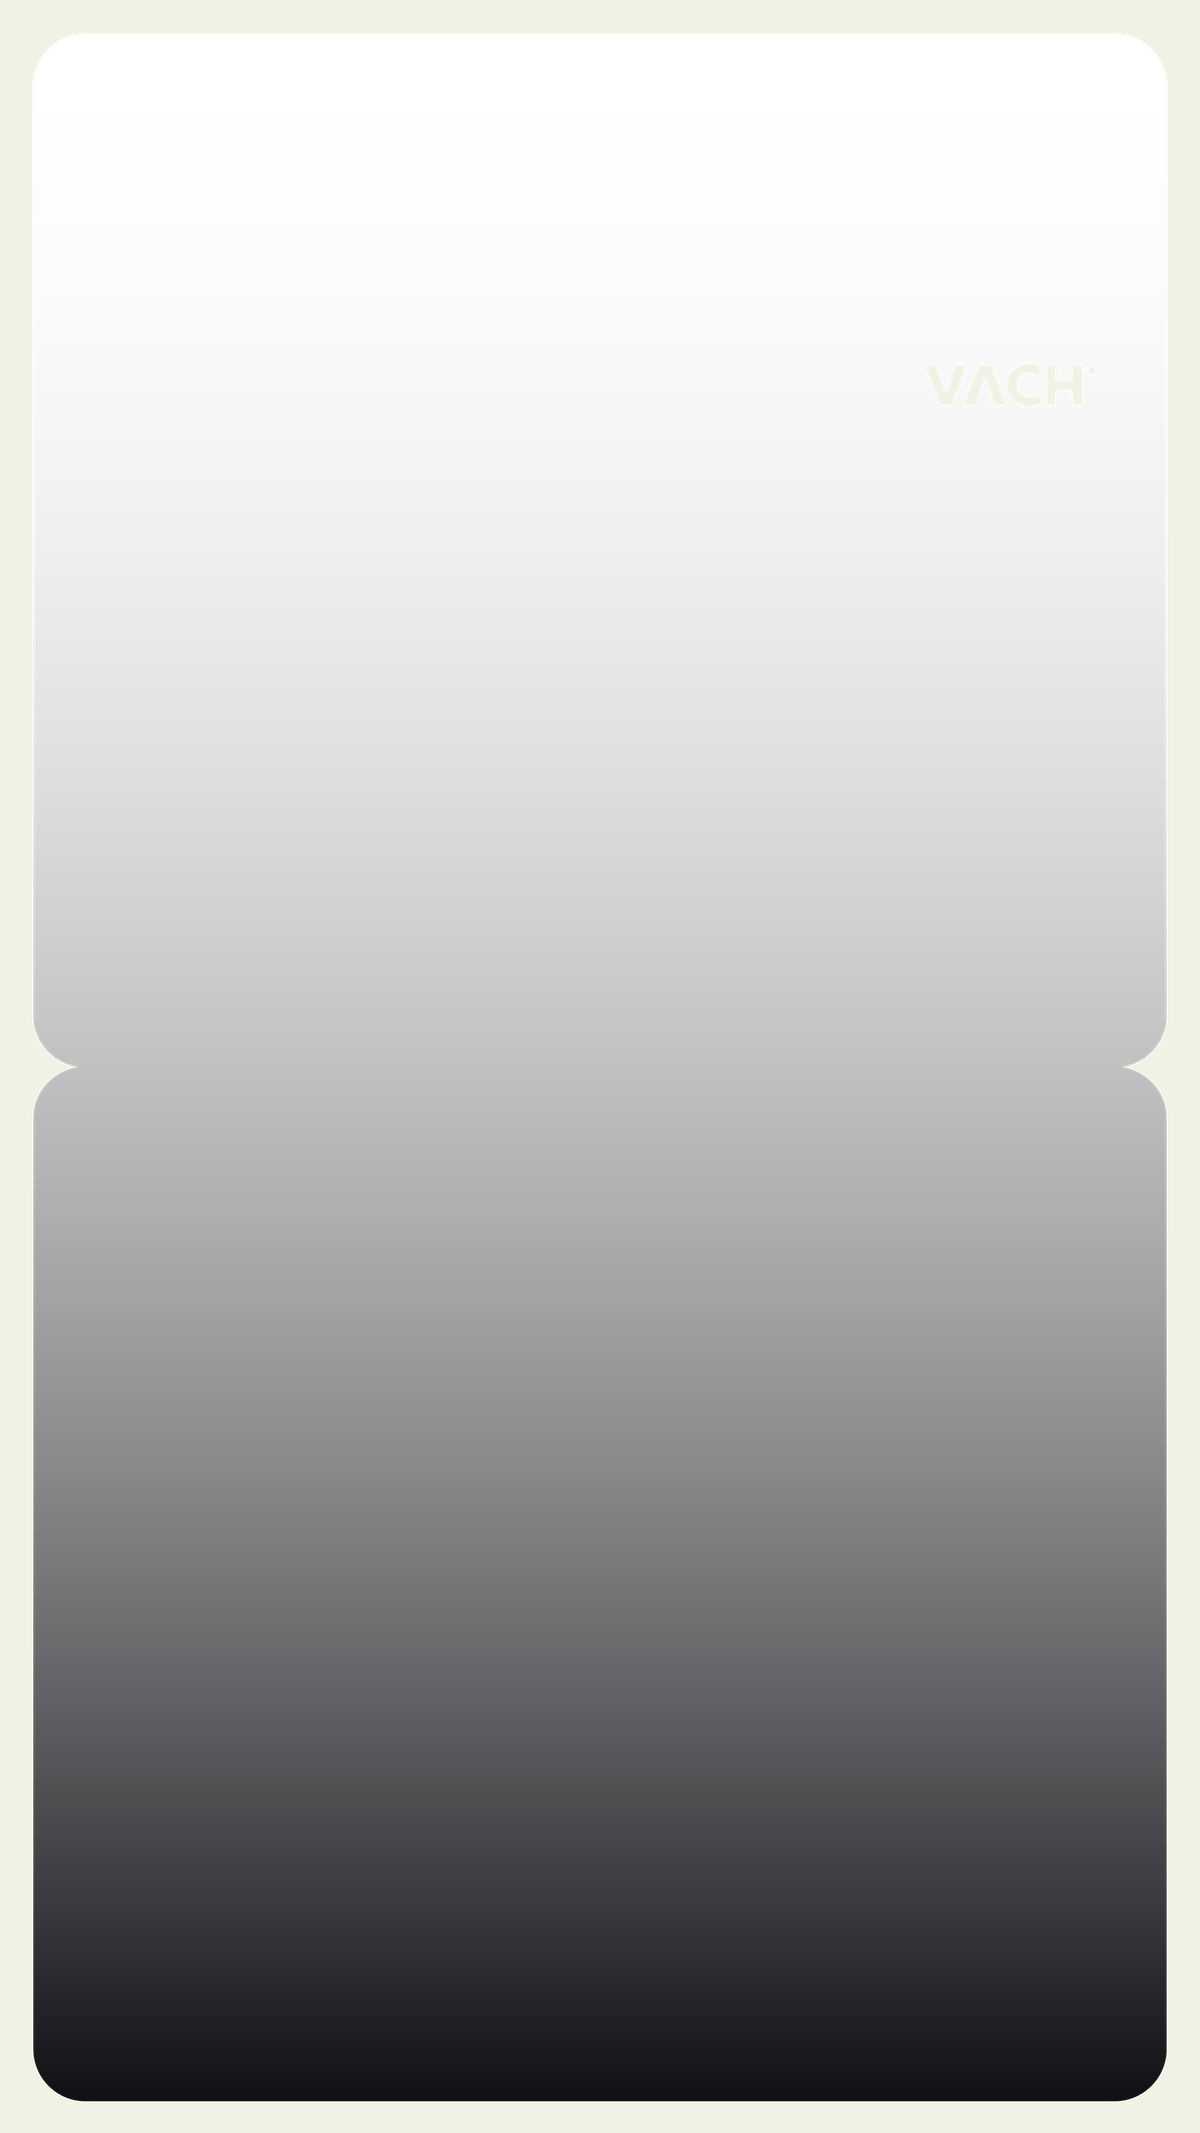
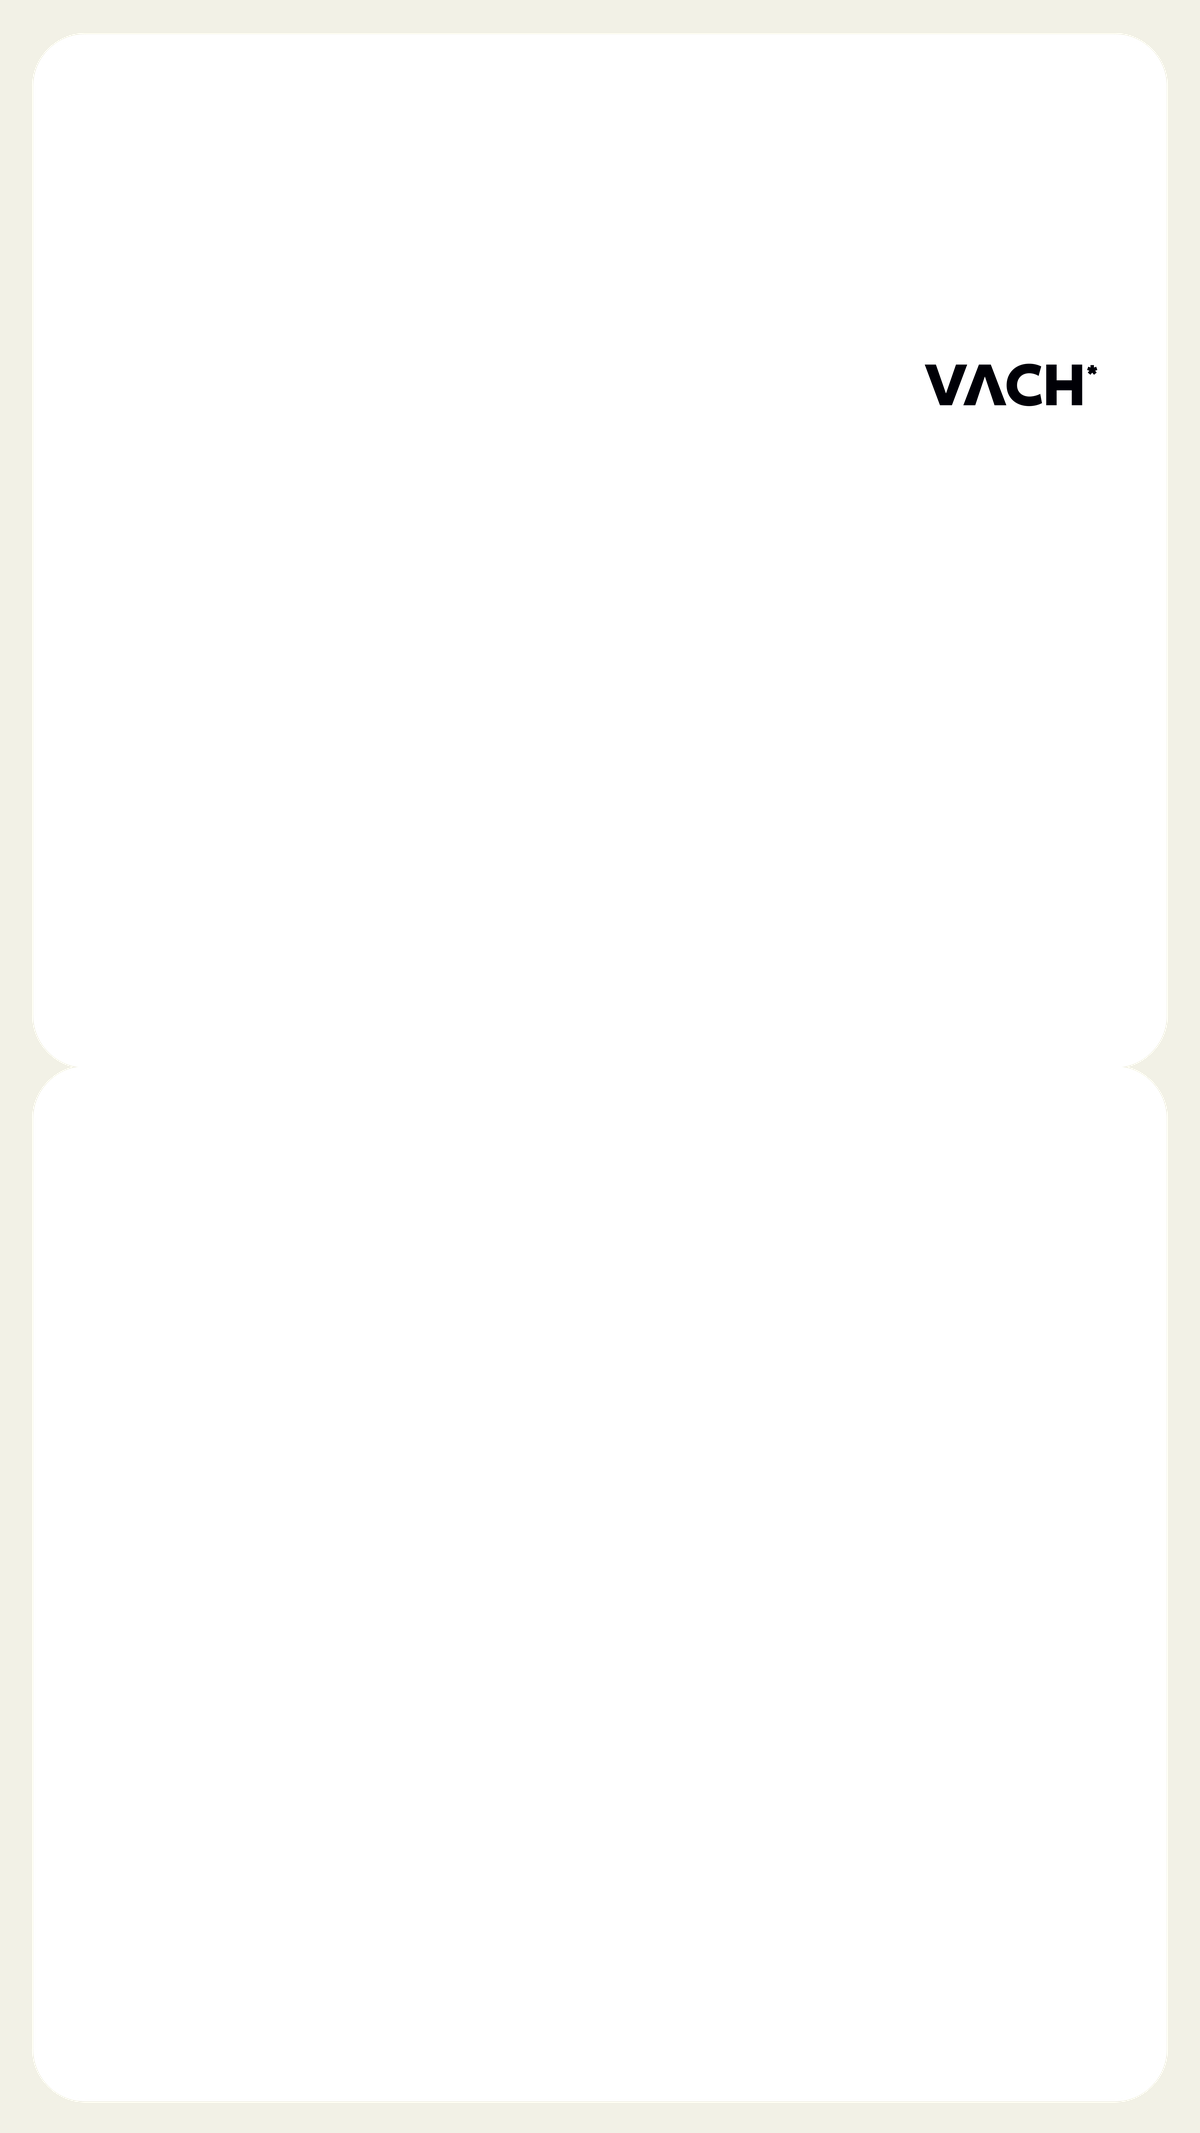
feat: agregar nueva marca de agua al lightbox (sin degradé)

diff --git a/vach-site/merchandising/centros-de-mesa/index.html b/vach-site/merchandising/centros-de-mesa/index.html
@@ -160,6 +160,7 @@
   <div class="lightbox-wrap">
     <img src="" alt="" id="lightbox-img">
     <button class="lightbox-flip" id="lightbox-flip" type="button" aria-label="Ver otra cara">&#8635;</button>
+    <img class="lightbox-watermark" src="/merchandising/assets/watermark.png" alt="">
     <div class="lightbox-footer">
       <span class="lightbox-caption" id="lightbox-caption"></span>
     </div>

diff --git a/vach-site/merchandising/llavero-nfc/index.html b/vach-site/merchandising/llavero-nfc/index.html
@@ -153,6 +153,7 @@
   <div class="lightbox-wrap">
     <img src="" alt="" id="lightbox-img">
     <button class="lightbox-flip" id="lightbox-flip" type="button" aria-label="Ver otra cara">&#8635;</button>
+    <img class="lightbox-watermark" src="/merchandising/assets/watermark.png" alt="">
     <div class="lightbox-footer">
       <span class="lightbox-caption" id="lightbox-caption"></span>
     </div>

diff --git a/vach-site/merchandising/objetos-a-medida/index.html b/vach-site/merchandising/objetos-a-medida/index.html
@@ -230,6 +230,7 @@
   <div class="lightbox-wrap">
     <img src="" alt="" id="lightbox-img">
     <button class="lightbox-flip" id="lightbox-flip" type="button" aria-label="Ver otra cara">&#8635;</button>
+    <img class="lightbox-watermark" src="/merchandising/assets/watermark.png" alt="">
     <div class="lightbox-footer">
       <span class="lightbox-caption" id="lightbox-caption"></span>
     </div>

diff --git a/vach-site/merchandising/charms/index.html b/vach-site/merchandising/charms/index.html
@@ -153,6 +153,7 @@
   <button class="lightbox-next" aria-label="Siguiente" onclick="lightboxNav(1)">&#8594;</button>
   <div class="lightbox-wrap">
     <img src="" alt="" id="lightbox-img">
+    <img class="lightbox-watermark" src="/merchandising/assets/watermark.png" alt="">
     <div class="lightbox-footer">
       <span class="lightbox-caption" id="lightbox-caption"></span>
     </div>

diff --git a/vach-site/merchandising/envases/index.html b/vach-site/merchandising/envases/index.html
@@ -132,6 +132,7 @@
   <button class="lightbox-next" aria-label="Siguiente" onclick="lightboxNav(1)">&#8594;</button>
   <div class="lightbox-wrap">
     <img src="" alt="" id="lightbox-img">
+    <img class="lightbox-watermark" src="/merchandising/assets/watermark.png" alt="">
     <div class="lightbox-footer">
       <span class="lightbox-caption" id="lightbox-caption"></span>
     </div>

diff --git a/vach-site/merchandising/fundas/index.html b/vach-site/merchandising/fundas/index.html
@@ -131,6 +131,7 @@
   <button class="lightbox-next" aria-label="Siguiente" onclick="lightboxNav(1)">&#8594;</button>
   <div class="lightbox-wrap">
     <img src="" alt="" id="lightbox-img">
+    <img class="lightbox-watermark" src="/merchandising/assets/watermark.png" alt="">
     <div class="lightbox-footer">
       <span class="lightbox-caption" id="lightbox-caption"></span>
     </div>

diff --git a/vach-site/merchandising/llaveros/index.html b/vach-site/merchandising/llaveros/index.html
@@ -195,6 +195,7 @@
   <button class="lightbox-next" aria-label="Siguiente" onclick="lightboxNav(1)">&#8594;</button>
   <div class="lightbox-wrap">
     <img src="" alt="" id="lightbox-img">
+    <img class="lightbox-watermark" src="/merchandising/assets/watermark.png" alt="">
     <div class="lightbox-footer">
       <span class="lightbox-caption" id="lightbox-caption"></span>
     </div>

diff --git a/vach-site/merchandising/pines/index.html b/vach-site/merchandising/pines/index.html
@@ -180,6 +180,7 @@
   <button class="lightbox-next" aria-label="Siguiente" onclick="lightboxNav(1)">&#8594;</button>
   <div class="lightbox-wrap">
     <img src="" alt="" id="lightbox-img">
+    <img class="lightbox-watermark" src="/merchandising/assets/watermark.png" alt="">
     <div class="lightbox-footer">
       <span class="lightbox-caption" id="lightbox-caption"></span>
     </div>

diff --git a/vach-site/merchandising/pulseras/index.html b/vach-site/merchandising/pulseras/index.html
@@ -142,6 +142,7 @@
   <button class="lightbox-next" aria-label="Siguiente" onclick="lightboxNav(1)">&#8594;</button>
   <div class="lightbox-wrap">
     <img src="" alt="" id="lightbox-img">
+    <img class="lightbox-watermark" src="/merchandising/assets/watermark.png" alt="">
     <div class="lightbox-footer">
       <span class="lightbox-caption" id="lightbox-caption"></span>
     </div>

diff --git a/vach-site/merchandising/reconocimientos/index.html b/vach-site/merchandising/reconocimientos/index.html
@@ -151,6 +151,7 @@
   <button class="lightbox-next" aria-label="Siguiente" onclick="lightboxNav(1)">&#8594;</button>
   <div class="lightbox-wrap">
     <img src="" alt="" id="lightbox-img">
+    <img class="lightbox-watermark" src="/merchandising/assets/watermark.png" alt="">
     <div class="lightbox-footer">
       <span class="lightbox-caption" id="lightbox-caption"></span>
     </div>

diff --git a/vach-site/merchandising/revolvedores/index.html b/vach-site/merchandising/revolvedores/index.html
@@ -142,6 +142,7 @@
   <button class="lightbox-next" aria-label="Siguiente" onclick="lightboxNav(1)">&#8594;</button>
   <div class="lightbox-wrap">
     <img src="" alt="" id="lightbox-img">
+    <img class="lightbox-watermark" src="/merchandising/assets/watermark.png" alt="">
     <div class="lightbox-footer">
       <span class="lightbox-caption" id="lightbox-caption"></span>
     </div>

diff --git a/vach-site/merchandising/assets/shared.css b/vach-site/merchandising/assets/shared.css
@@ -564,7 +564,15 @@ footer {
   to   { opacity: 1; }
 }
 .lightbox-wrap img.lightbox-watermark {
-  display: none;
+  position: absolute;
+  inset: 0;
+  width: 100%;
+  height: 100%;
+  max-width: none;
+  max-height: none;
+  object-fit: cover;
+  pointer-events: none;
+  z-index: 2;
 }
 .lightbox-footer {
   position: absolute;
